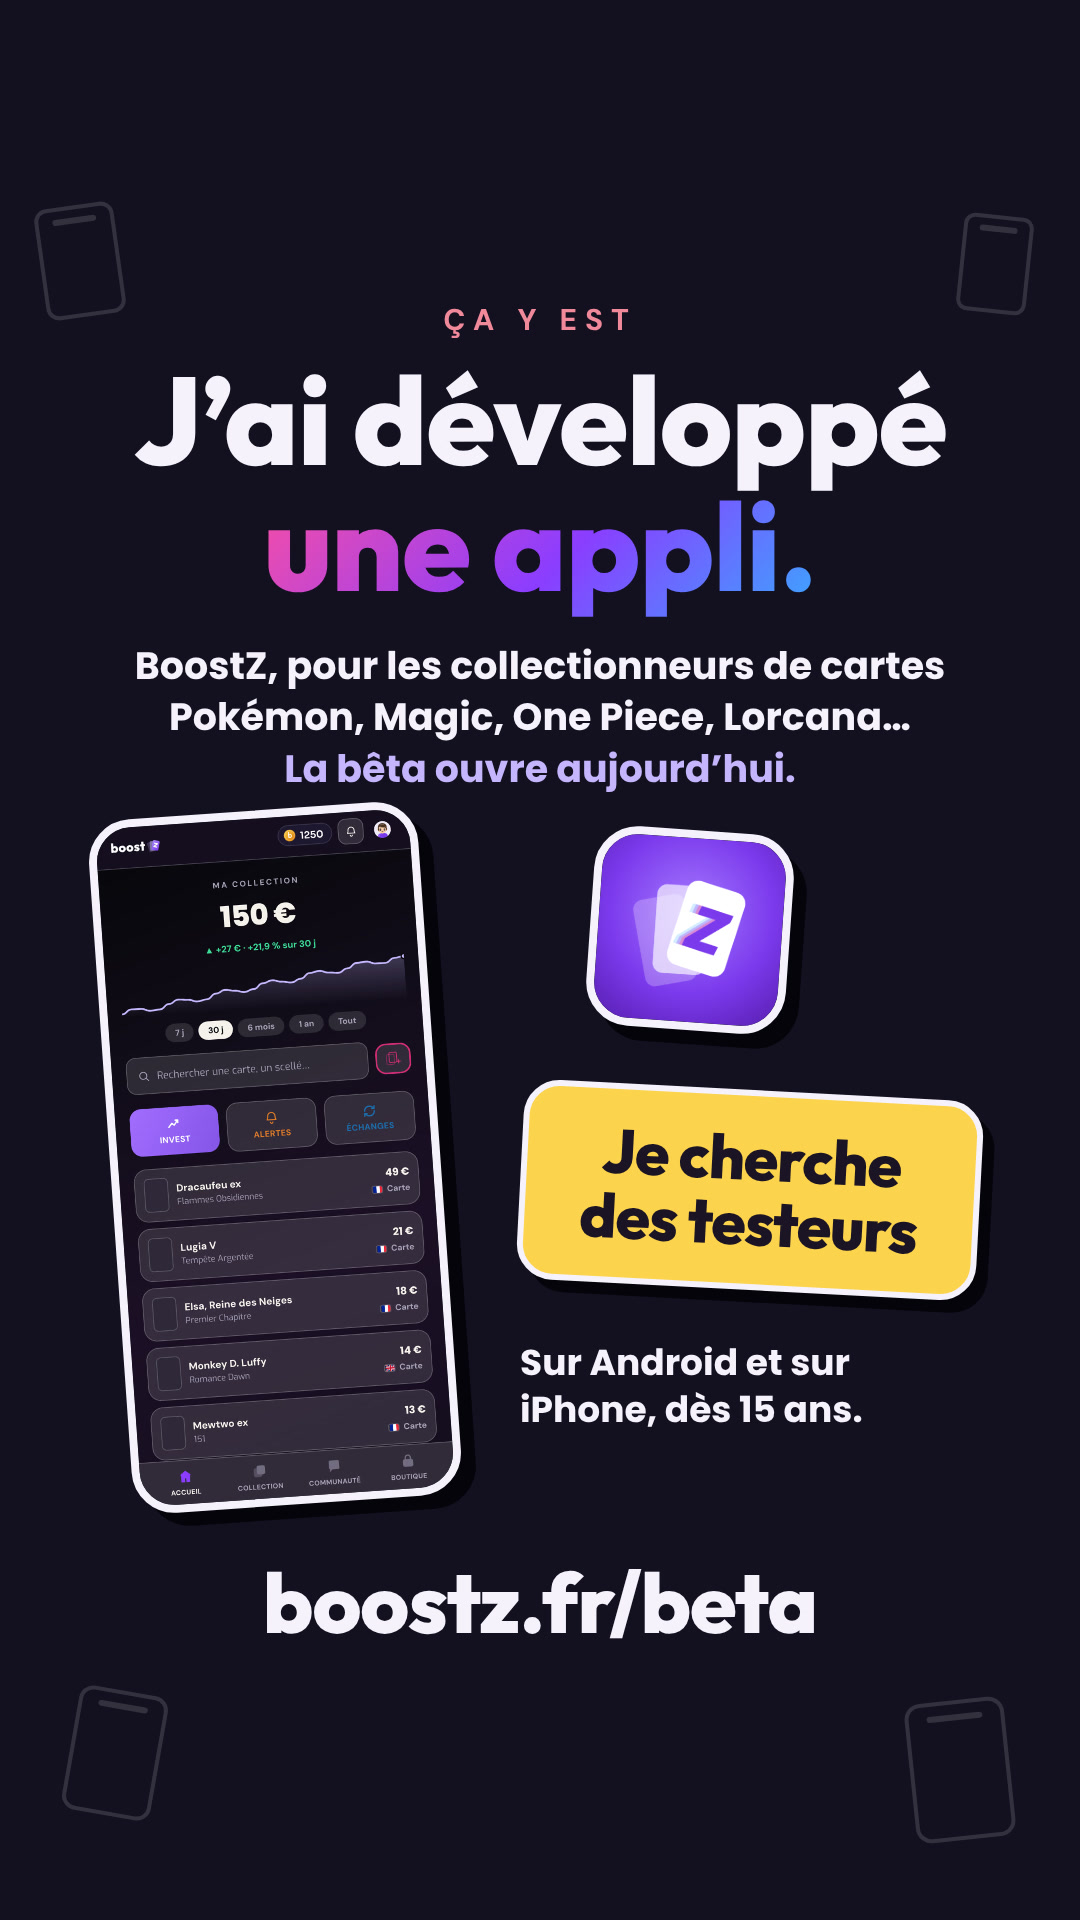
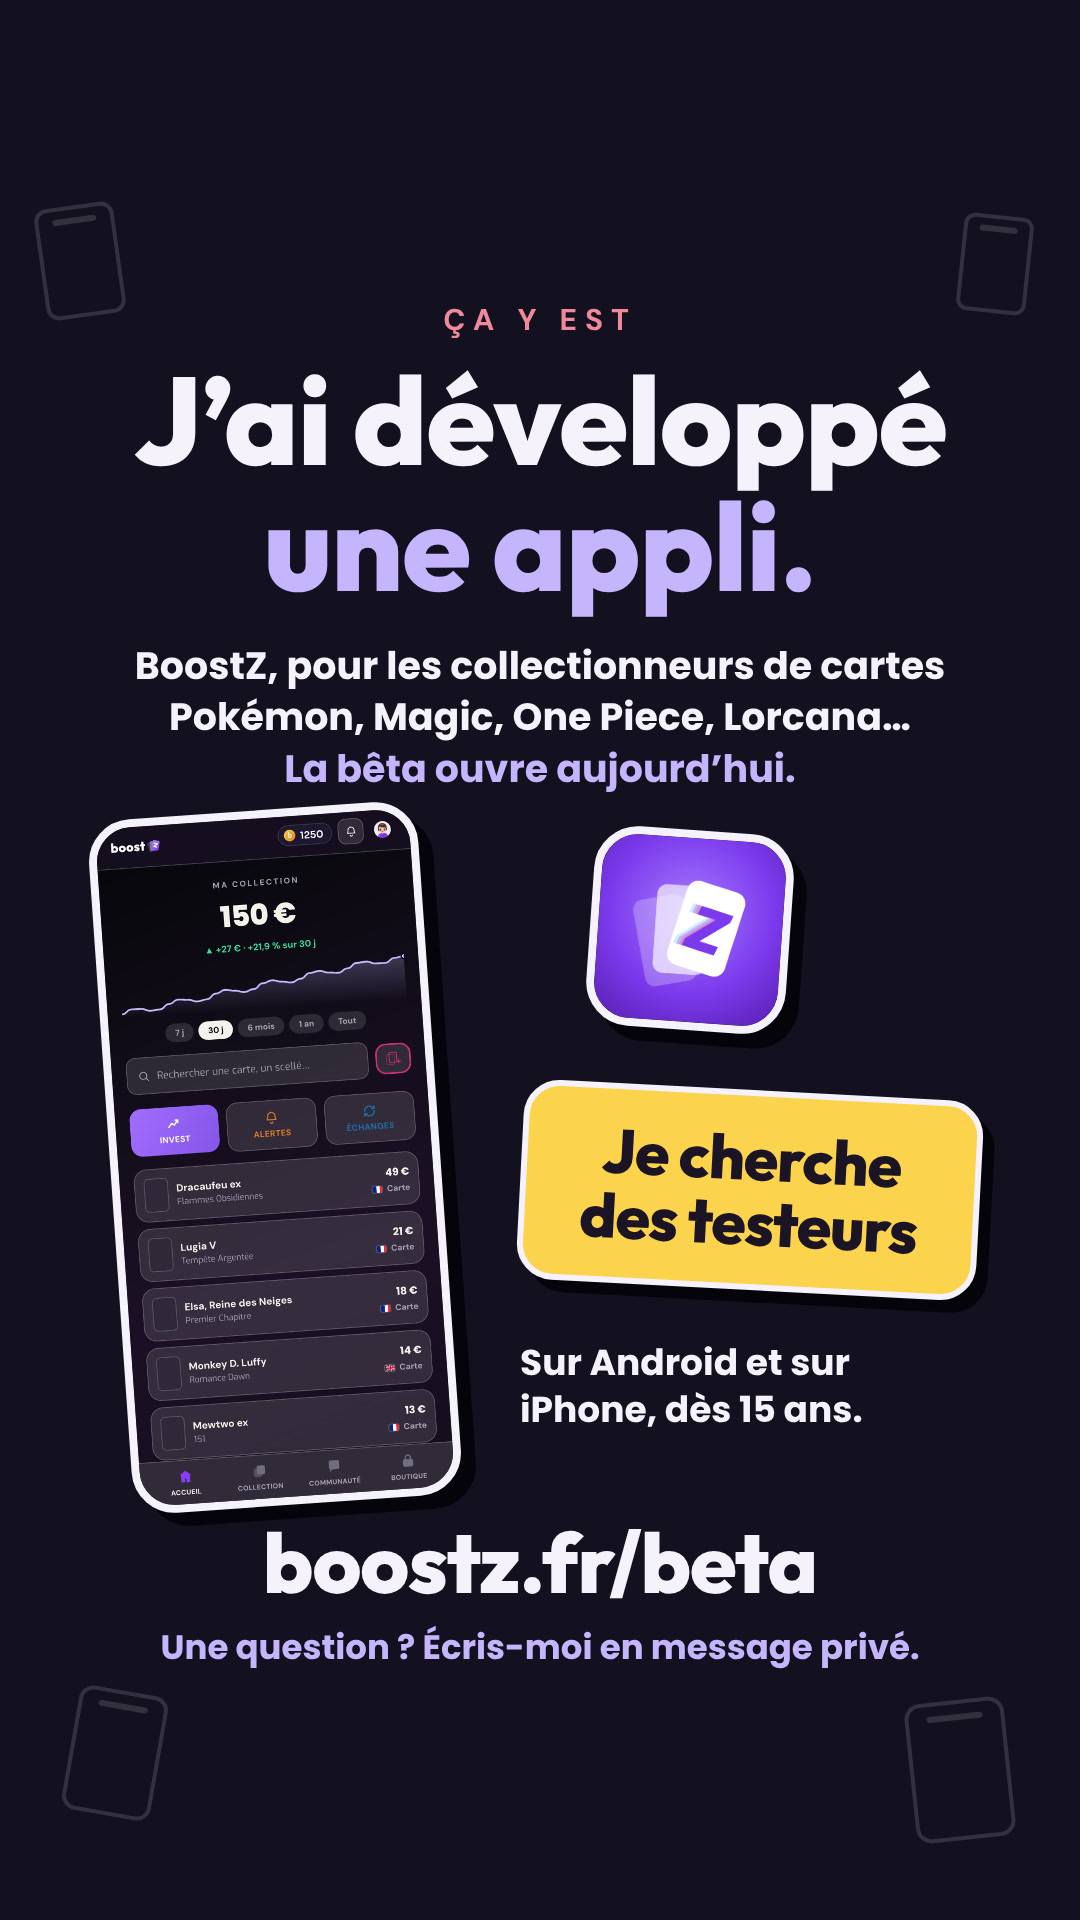
Drop the gradient from the personal announcement's title
TanPib found « une appli » in the brand gradient too AI-looking: it now
takes the plain accent colour. The story also tells his friends they can
write to him in a private message, as he asked.

Claude-Session: https://claude.ai/code/session_01KYjmNhJZrtvo4jRtggkgV3

Changed region(s): [[0.1528, 0.7812, 0.8556, 0.875], [0.4583, 0.25, 0.7639, 0.3438], [0.2444, 0.25, 0.4278, 0.3125]]

diff --git a/gabarits/perso-beta.html b/gabarits/perso-beta.html
@@ -9,7 +9,8 @@
 // family, so it stays simple: one 4:5 image for the post, one 9:16 image for
 // the story (he adds the link sticker to boostz.fr/beta and the mention of
 // @boostz.app by hand). First person, no marketing line, the real home screen
-// of the app, no store badge and no TestFlight link.
+// of the app, no store badge and no TestFlight link. « une appli » is in the
+// plain accent colour: the brand gradient on it read as « trop IA » to him.
 // Render: node rendu.mjs perso-beta.html images
 document.head.insertAdjacentHTML('beforeend', '<style>#story { height: 1920px; }</style>');
 const phone = (x, y, w, r) => `<div class="abs" style="left:${x}px;top:${y}px;width:${w}px;height:${Math.round((w - 16) * 2.164) + 16}px;border-radius:${w * .13}px;background:#131020;border:8px solid ${INK};box-shadow:14px 14px 0 ${SHADOW};overflow:hidden;transform:rotate(${r}deg);z-index:4"><img src="shots/app-accueil.jpg" style="width:100%;display:block"></div>`;
@@ -19,7 +20,7 @@ const ask = (x, y, w, h, size, r) => st(x, y, w, h, `<div class="h" style="displ
 carousel([
   ['post', `${ghosts([[950, 70, 80, 8]])}${track(0, 1312, .25)}
     <div class="abs lab" style="left:70px;top:92px;font-size:30px;letter-spacing:8px;color:${PINK}">ÇA Y EST</div>
-    <div class="abs h" style="left:70px;top:146px;font-size:120px">J’ai développé<br><span class="grad">une appli.</span></div>
+    <div class="abs h" style="left:70px;top:146px;font-size:120px">J’ai développé<br><span class="acc">une appli.</span></div>
     ${icon(70, 440, 170, -4)}
     <div class="abs" style="left:285px;top:478px">${wordmark(92)}</div>
     <div class="abs ui" style="left:70px;top:655px;width:540px;font-size:38px;line-height:1.3">Pour les collectionneurs de cartes : Pokémon, Magic, One Piece, Lorcana…</div>
@@ -30,12 +31,13 @@ carousel([
     ${phone(650, 440, 360, 4)}`],
   ['story', `${ghosts([[40, 205, 80, -8], [960, 215, 70, 6], [70, 1690, 90, 10], [910, 1700, 100, -6]])}
     <div class="abs lab" style="left:0;top:300px;width:1080px;text-align:center;font-size:30px;letter-spacing:8px;color:${PINK}">ÇA Y EST</div>
-    <div class="abs h" style="left:0;top:356px;width:1080px;text-align:center;font-size:124px">J’ai développé<br><span class="grad">une appli.</span></div>
+    <div class="abs h" style="left:0;top:356px;width:1080px;text-align:center;font-size:124px">J’ai développé<br><span class="acc">une appli.</span></div>
     <div class="abs ui" style="left:60px;top:640px;width:960px;text-align:center;font-size:38px;line-height:1.35">BoostZ, pour les collectionneurs de cartes<br>Pokémon, Magic, One Piece, Lorcana…<br><span class="acc">La bêta ouvre aujourd’hui.</span></div>
     ${phone(110, 810, 330, -4)}
     ${icon(590, 830, 200, 4)}
     ${ask(520, 1090, 460, 200, 62, 3)}
     <div class="abs ui" style="left:520px;top:1340px;width:470px;font-size:36px;line-height:1.3">Sur Android et sur iPhone, dès 15 ans.</div>
-    <div class="abs h" style="left:0;top:1560px;width:1080px;text-align:center;font-size:84px">boostz.fr/beta</div>`]
+    <div class="abs h" style="left:0;top:1520px;width:1080px;text-align:center;font-size:84px">boostz.fr/beta</div>
+    <div class="abs ui" style="left:0;top:1622px;width:1080px;text-align:center;font-size:34px;color:${VSOFT}">Une question ? Écris-moi en message privé.</div>`]
 ]);
 </script></body></html>
